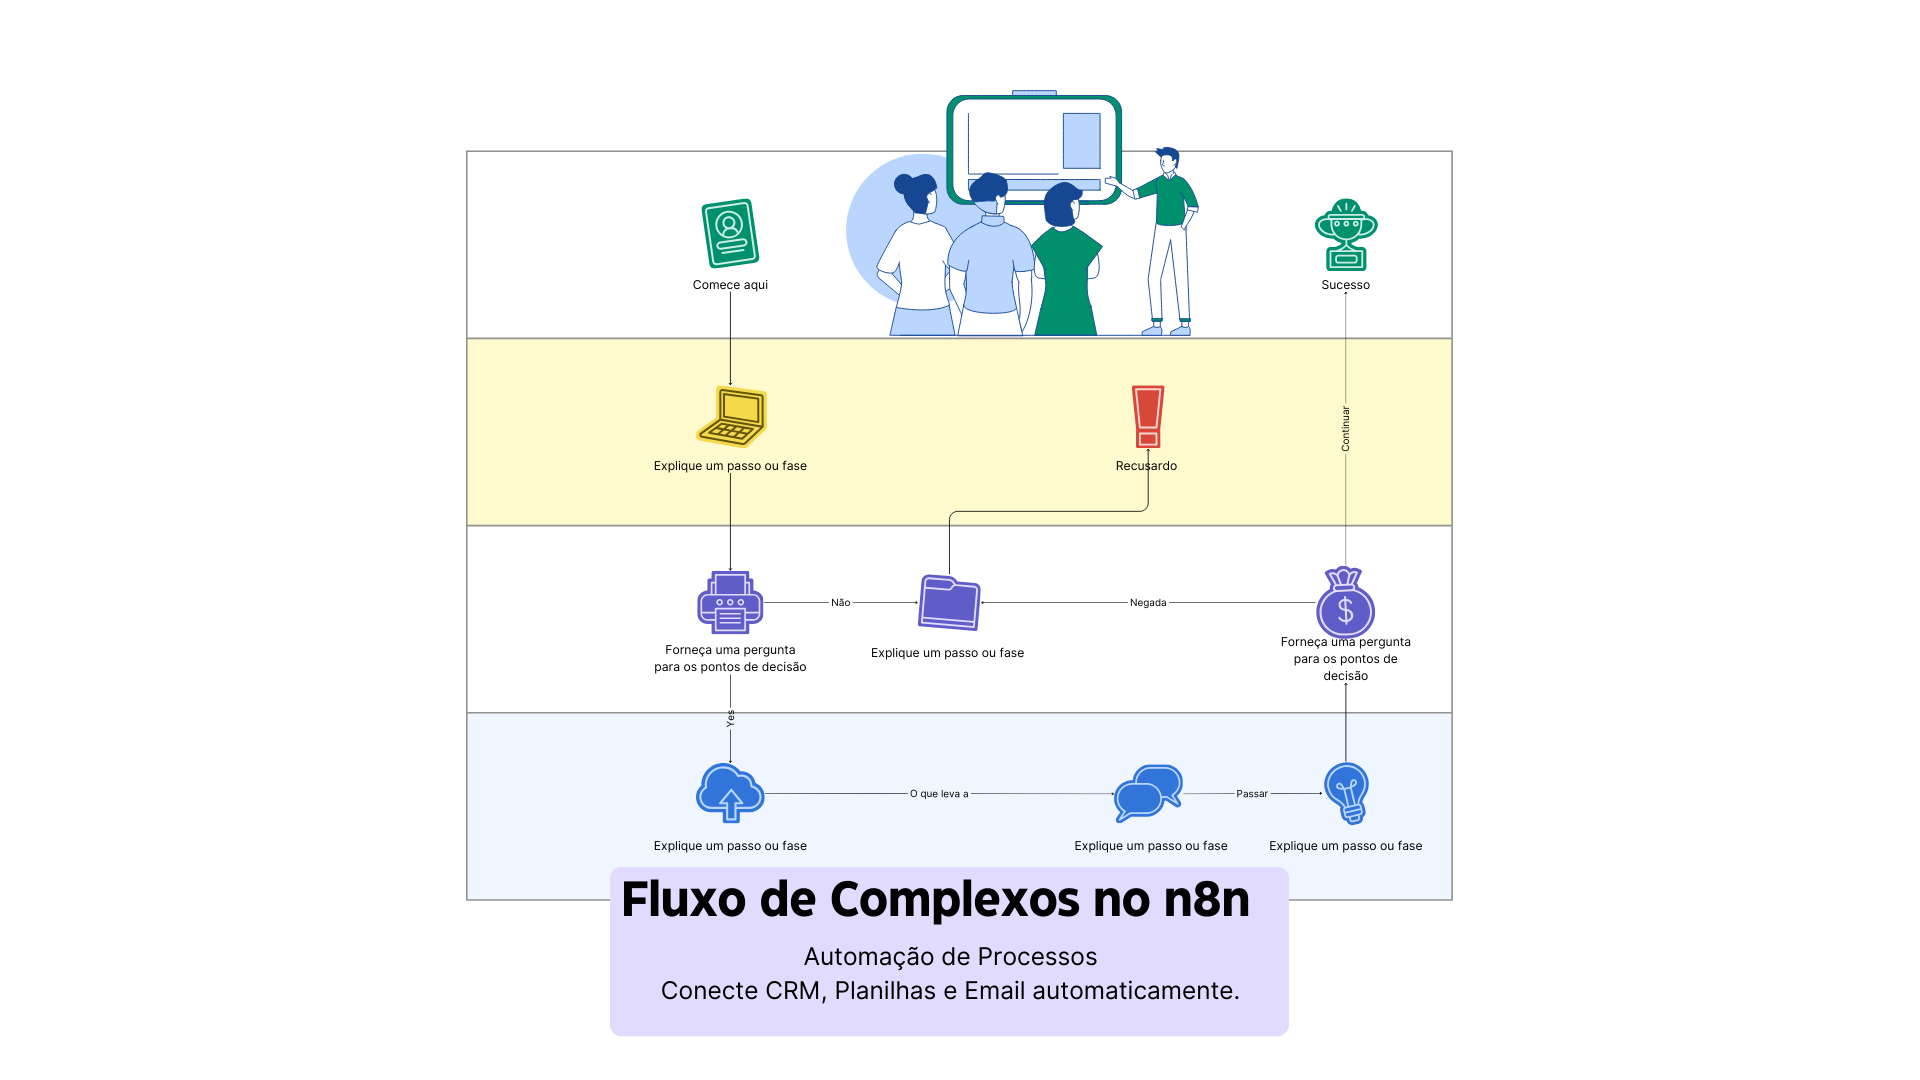
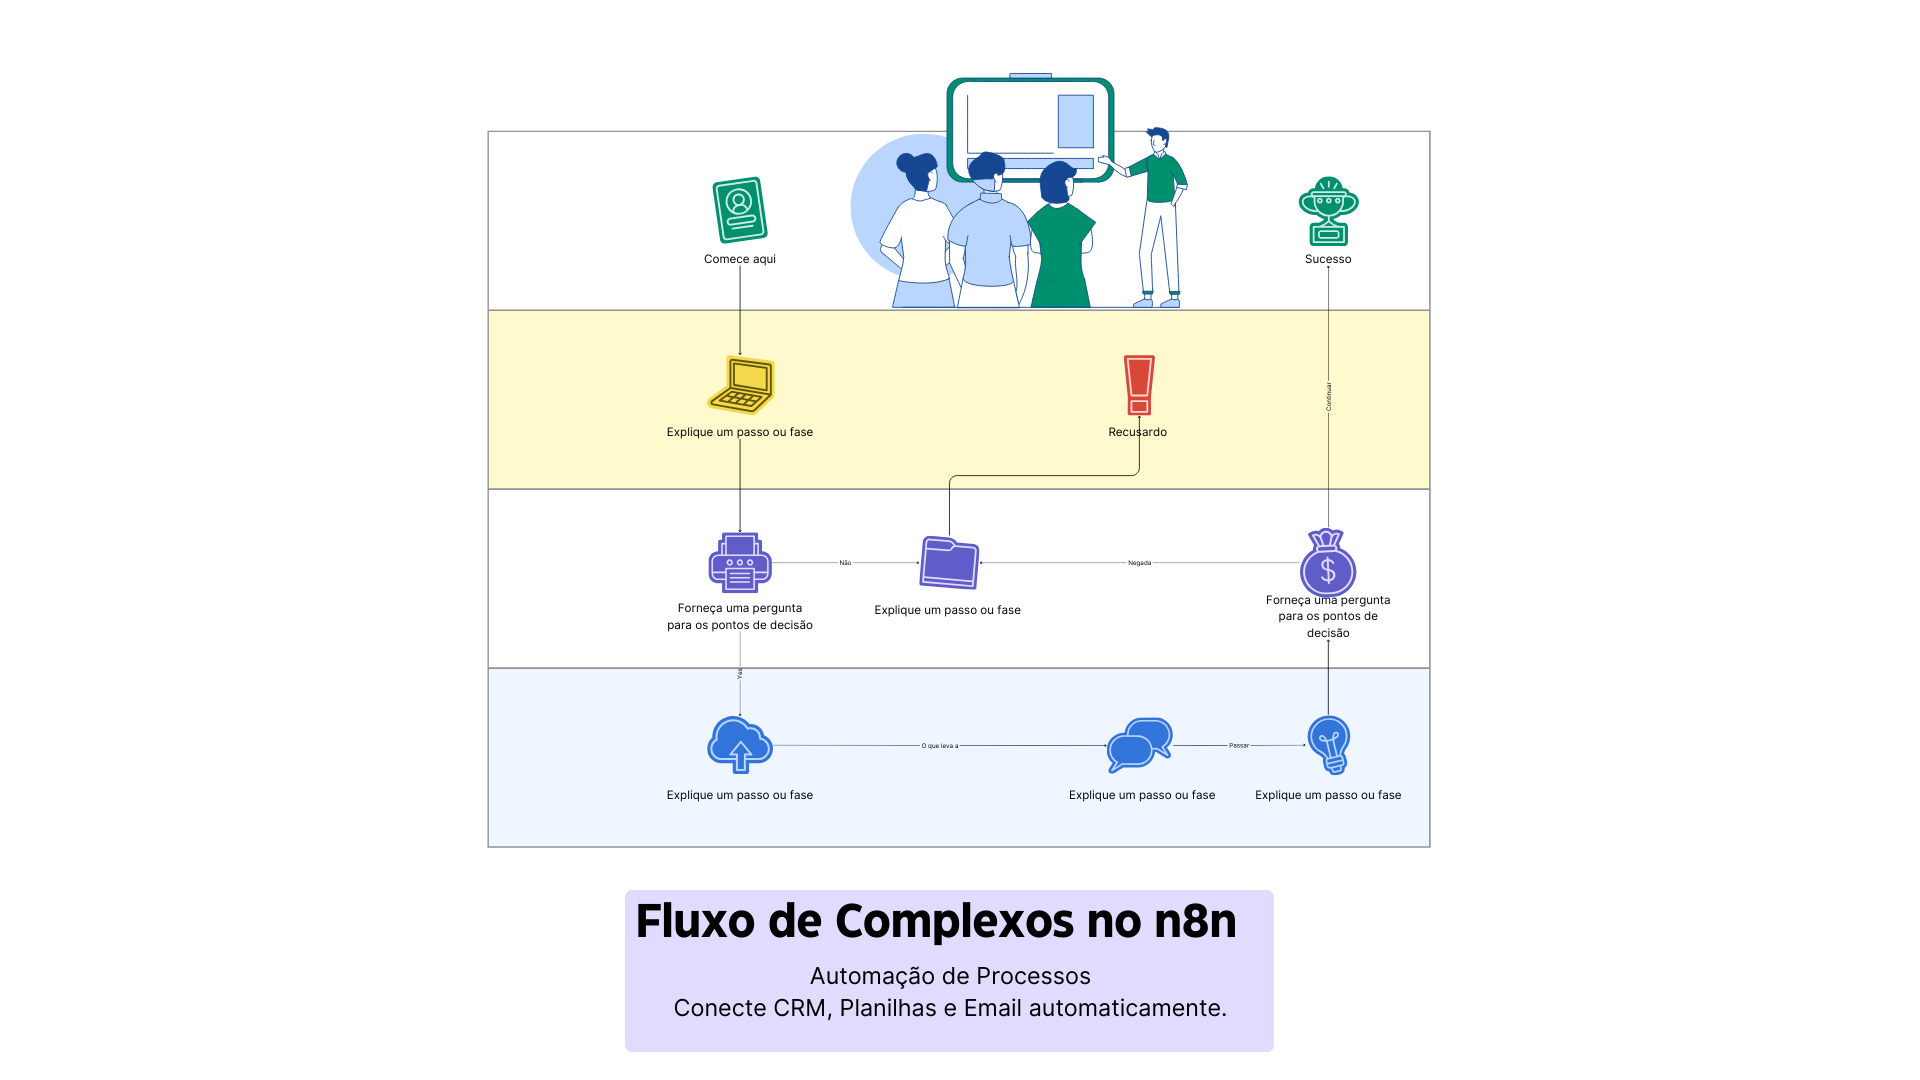
Subir imagens

Changed region(s): [[0.2188, 0.0611, 0.7812, 0.9778]]

diff --git a/index.html b/index.html
@@ -146,7 +146,8 @@
                     </ul>
                 </div>
                 <div class="col-lg-6">
-                     <img src="https://placehold.co/500x300/EEE/333?text=Workflow+Visual" class="img-fluid rounded shadow" alt="Workflow">
+                     <!-- <img src="https://placehold.co/500x300/EEE/333?text=Workflow+Visual" class="img-fluid rounded shadow" alt="Workflow"> -->
+                     <img src="img/workflow.webp" class="img-fluid rounded shadow" alt="Workflow">
                 </div>
             </div>
         </div>